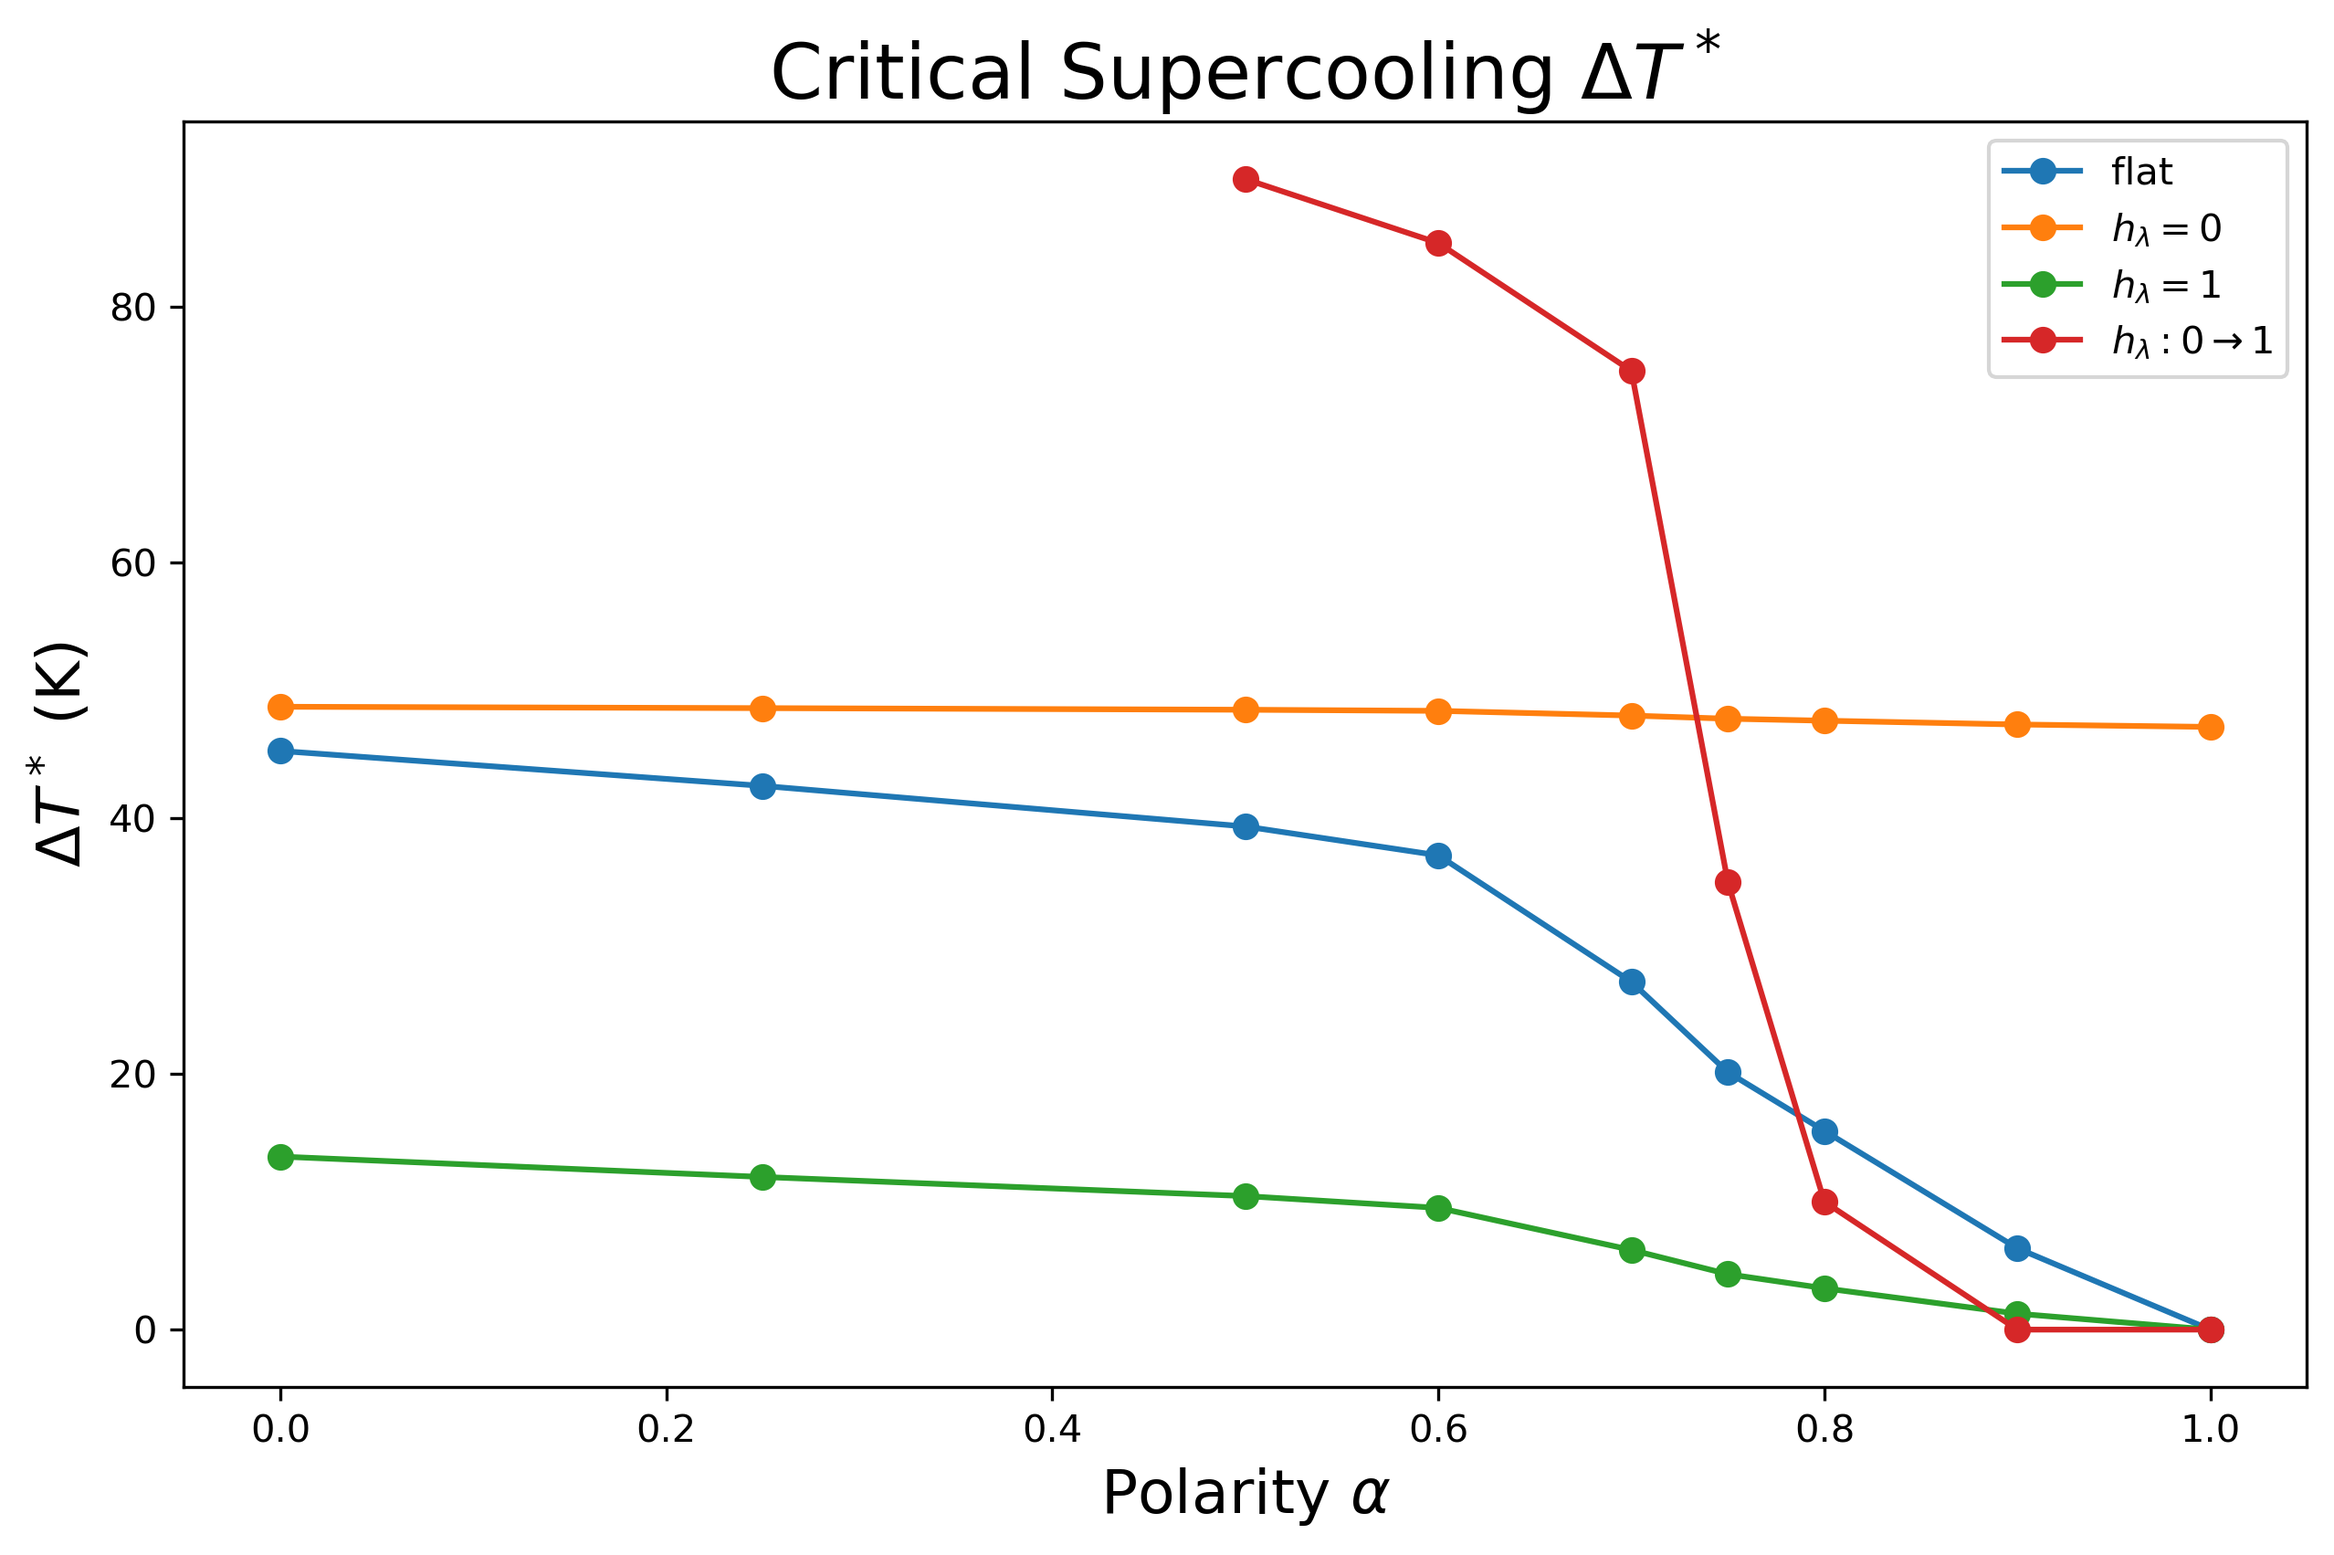
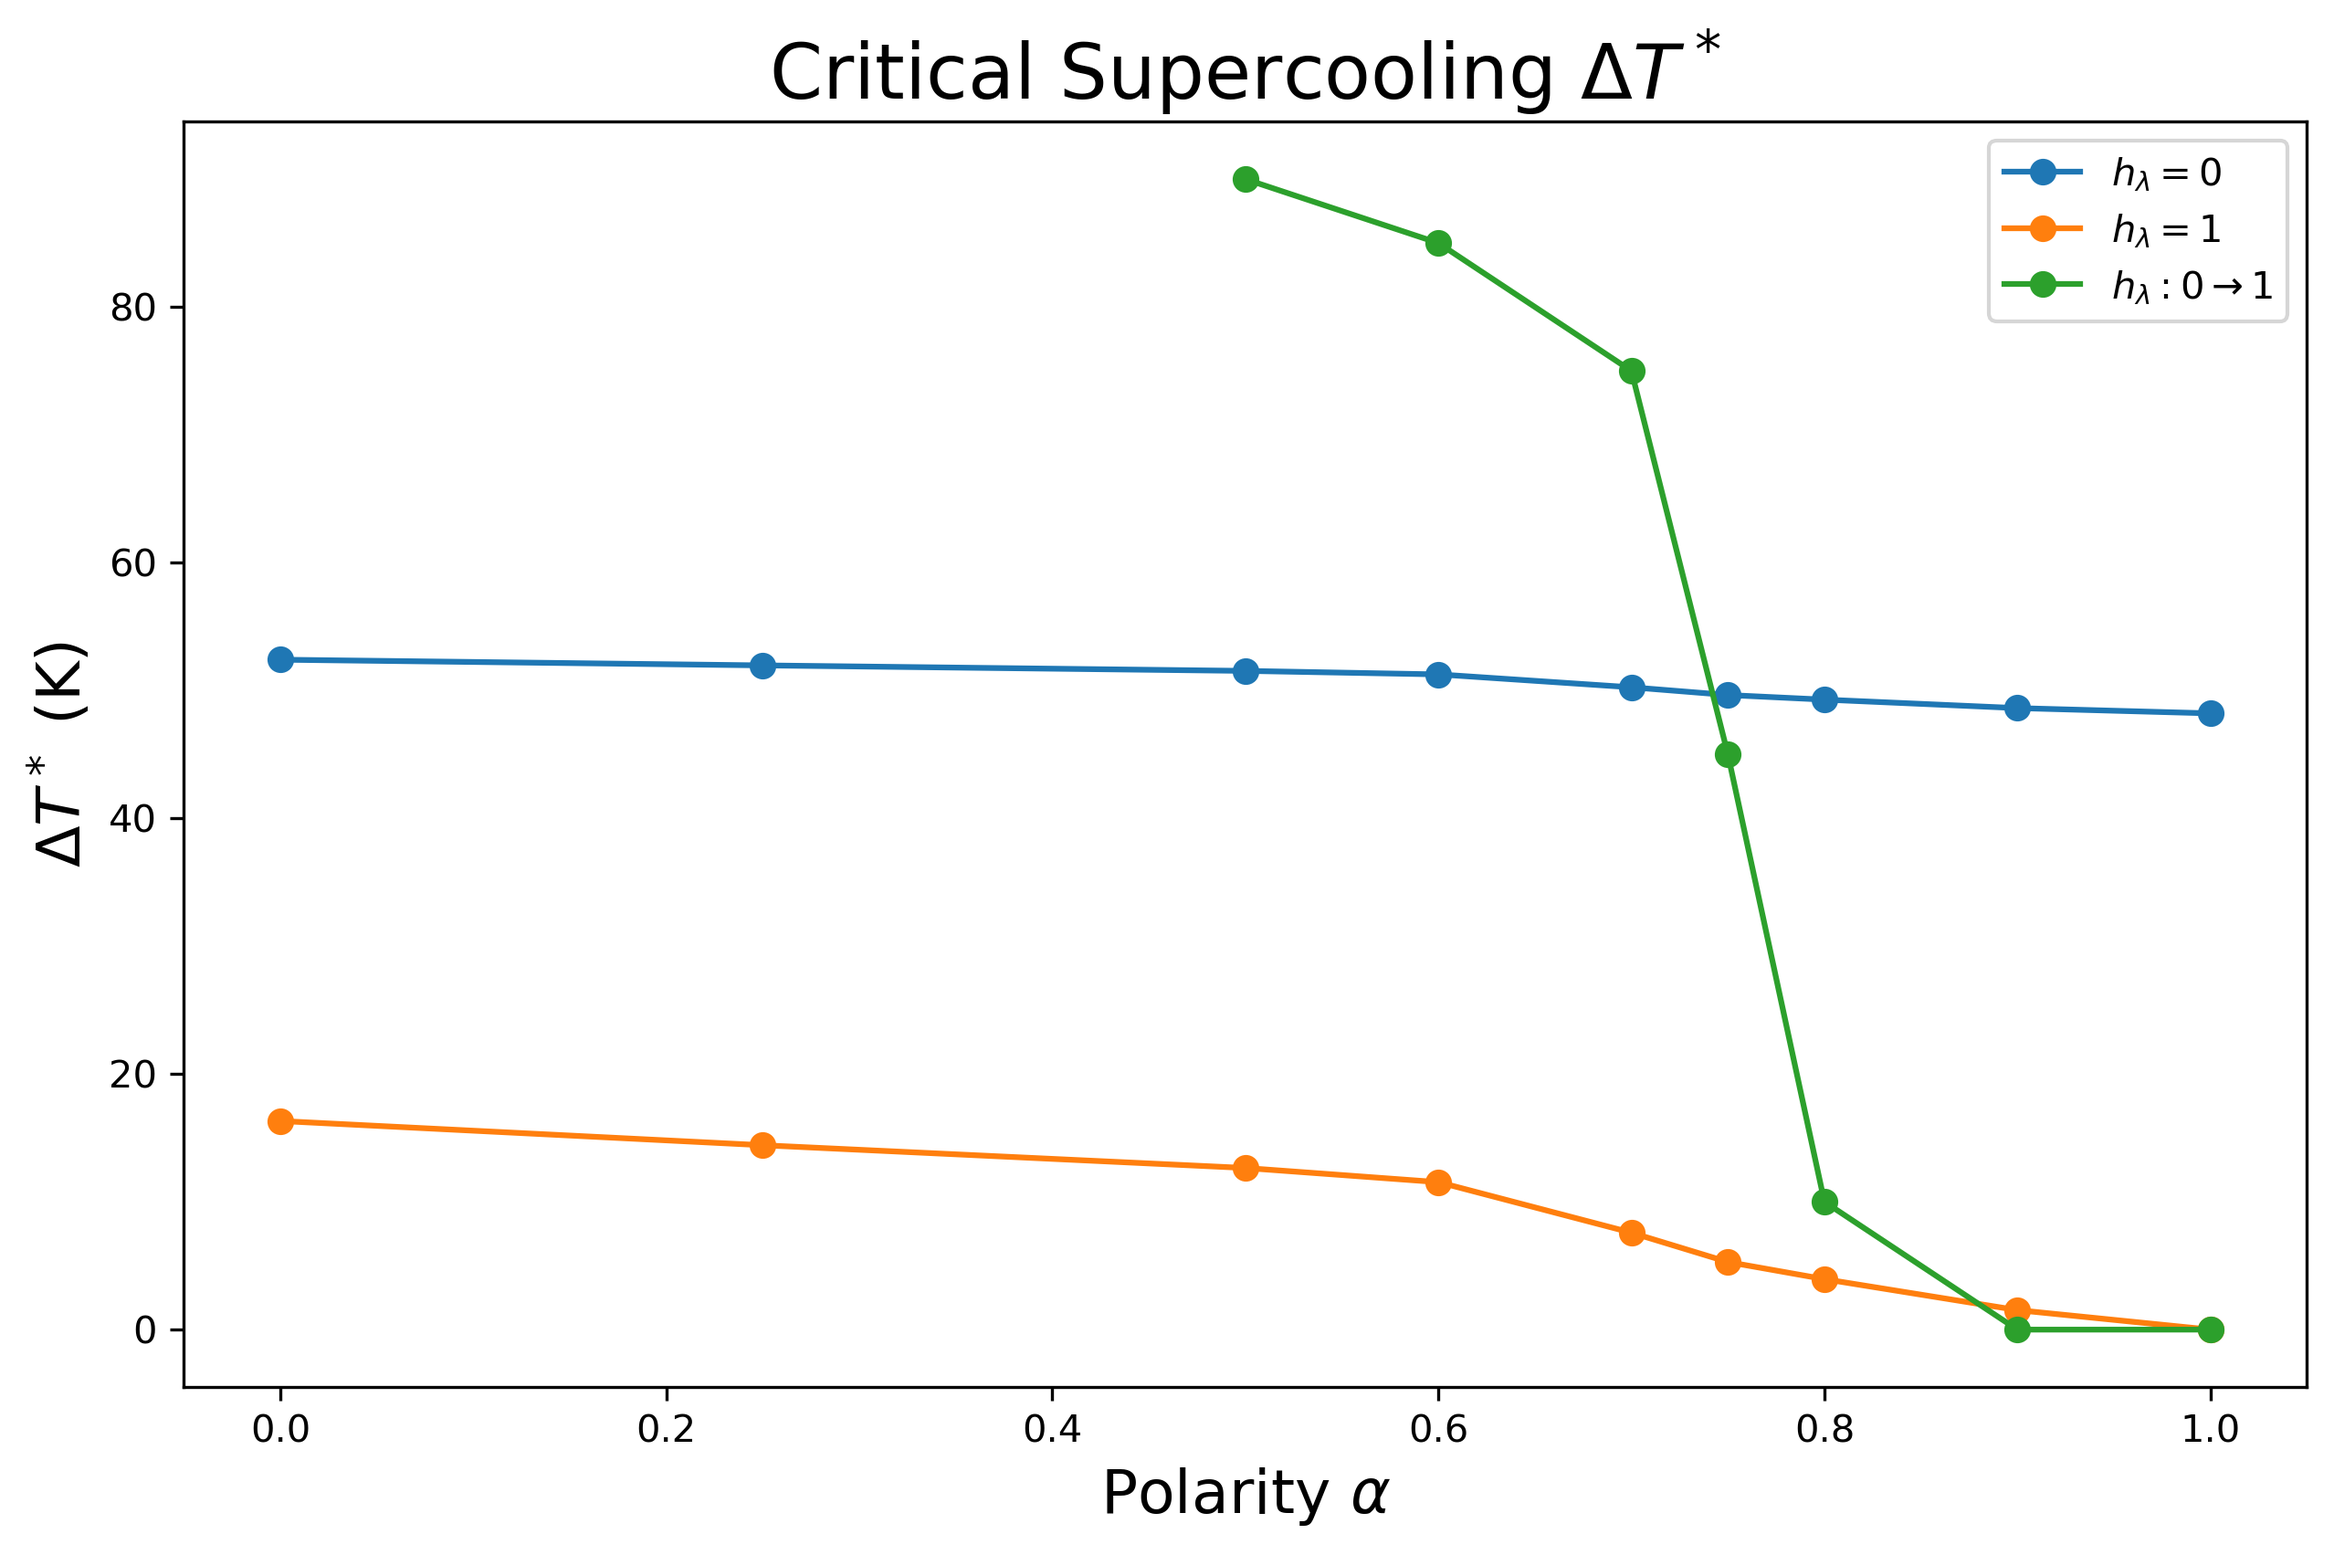
sync

diff --git a/physical_quantity/prototype.py b/physical_quantity/prototype.py
@@ -1,0 +1,129 @@
+# Author: Mian Qin
+# Date Created: 2024/11/13
+from pathlib import Path
+
+import numpy as np
+import matplotlib as mpl
+import matplotlib.pyplot as plt
+
+from utils_plot import create_fig_ax, save_figure
+
+
+class TrackSubclass(type):
+    subclass = []
+
+    def __new__(cls, name, bases, namespace):
+        new_class = super().__new__(cls, name, bases, namespace)
+        new_class.instances = []
+        return new_class
+
+    def __call__(cls, *args, **kwargs):
+        instance = super().__call__(*args, **kwargs)
+        cls.instances.append(instance)
+        return instance
+
+
+class PhysicalQuantity(metaclass=TrackSubclass):
+    name = ""
+    latex_name = ""
+    unit = ""
+
+    def __init__(self, model, value):
+        self.model = model
+        self._value = value
+
+    @property
+    def value(self):
+        return self._value
+
+    def __str__(self):
+        return f"{self.value} ({self.unit})"
+
+    @classmethod
+    def plot_all(cls):
+        title = "Comparison"
+        x_label = "Model"
+        y_label = fr"${cls.latex_name}\ (\mathrm{{{cls.unit}}})$"
+        fig, ax = create_fig_ax(title, x_label, y_label)
+
+        models = []
+        values = []
+        for instance in cls.instances:
+            models.append(instance.model)
+            values.append(instance.value)
+
+        cmap = mpl.colormaps.get_cmap("tab10")
+        colors = cmap(np.arange(len(models)))
+
+        ax.bar(models, values, color=colors)
+        max_value = max(values)
+        min_value = min(values)
+        margin = 0.1 * (max_value - min_value)
+        ax.set_ylim([min_value - margin, max_value + margin])
+
+        save_path = Path(f"./figure/{cls.name}_compare.png")
+        save_figure(fig, save_path)
+        plt.close(fig)
+
+
+class TDependentQuantity(metaclass=TrackSubclass):
+    name = ""
+    latex_name = ""
+    unit = ""
+
+    def __init__(self, model: str, valid_range: tuple[float, float], value_function):
+        self.model = model
+        self.valid_range = valid_range
+        self.value_function = value_function
+
+    def __call__(self, T):
+        self.check_T_range(T)
+        return self.value_at(T)
+
+    def value_at(self, T):
+        return self.value_function(T)
+
+    def check_T_range(self, T):
+        T_min, T_max = self.valid_range
+        if T < T_min or T > T_max:
+            raise ValueError(f"Temperature {T} is out of the valid range ({T_min}, {T_max})")
+
+    def plot_T_dependent_on_ax(self, ax):
+        T_min, T_max = self.valid_range
+        T = np.linspace(T_min, T_max, 1000)
+        value = [self.value_at(x) for x in T]
+        ax.plot(T, value, "-", label=self.model)
+
+    def plot_T_dependent(self):
+        title = self.model
+        x_label = r"$T\ (\mathrm{K})$"
+        y_label = fr"${self.latex_name}\ (\mathrm{{{self.unit}}})$"
+        fig, ax = create_fig_ax(title, x_label, y_label)
+
+        self.plot_T_dependent_on_ax(ax)
+
+        save_path = Path(f"./figure/{self.name}_{self.model}.png")
+        save_figure(fig, save_path)
+
+    @classmethod
+    def plot_all(cls):
+        title = "Comparison"
+        x_label = r"$T\ (\mathrm{K})$"
+        y_label = fr"${cls.latex_name}\ (\mathrm{{{cls.unit}}})$"
+        fig, ax = create_fig_ax(title, x_label, y_label)
+
+        for instance in cls.instances:
+            instance.plot_T_dependent_on_ax(ax)
+
+        ax.legend()
+        save_path = Path(f"./figure/{cls.name}_compare.png")
+        save_figure(fig, save_path)
+        plt.close(fig)
+
+
+def main():
+    ...
+
+
+if __name__ == "__main__":
+    main()

diff --git a/calculate_deltaTstar_tip4pice.py b/calculate_deltaTstar_tip4pice.py
@@ -13,6 +13,7 @@ Delta_H_m = 5.60e3  # J/mol
 l_PI = 2  # nm
 l_box = 4.6  # nm
 alpha_list = [0.0, 0.25, 0.5, 0.6, 0.7, 0.75, 0.8, 0.9, 1.0]
+critical_Delta_T_sim = {0.5: 90, 0.6: 85, 0.7: 75, 0.75: 45, 0.8: 10, 0.9: 0, 1.0: 0}
 
 
 def read_k():
@@ -69,7 +70,7 @@ def calc_G(r, k_eff, T):
     return G
 
 
-def calculate_deltaTstar(k_eff, n=30):
+def calculate_deltaTstar(k_eff, n=20):
     if k_eff > 0.99:
         return 0
     r = np.logspace(-11, -7, 1000)
@@ -156,19 +157,27 @@ def main():
     ax.set_title(r"Critical Supercooling $\Delta T^*$")
     ax.set_xlabel(r"Polarity $\alpha$")
     ax.set_ylabel(r"$\Delta T^*\ ({\rm K})$")
-    ax.plot(alpha_list, data_flat, "o-", label=fr"flat")
     for h_lambda in [0, 1]:
         ax.plot(alpha_list, data[h_lambda], "o-", label=fr"$h_\lambda = {h_lambda}$")
-    ax.plot([0.5, 0.6, 0.7, 0.75, 0.8, 0.9, 1.0], [90, 85, 75, 35, 10, 0, 0], "o-", label=fr"$h_\lambda: 0 \to 1$")
+    # ax.plot([], [])
+    # ax.plot([], [])
+    ax.plot([0.5, 0.6, 0.7, 0.75, 0.8, 0.9, 1.0], [90, 85, 75, 45, 10, 0, 0], "o-", label=fr"$h_\lambda: 0 \to 1$")
+
+    # critical_T_x = [0.0, 0.25, 0.5, 0.6, 0.7, 0.75, 0.8, 0.9, 1.0]
+    # critical_T_y = data[0][:5] + [45, 10] + data[1][7:]
+    critical_T_x = [0.75, 0.8, 0.9, 1.0]
+    critical_T_y = [45, 10] + data[1][7:]
+    ax.plot(critical_T_x, critical_T_y, "o-", label=r"$\Delta T^*$")
+    ax.plot(alpha_list, data_flat, "o-", label=fr"flat")
     ax.legend()
-    plt.savefig(f"figure/delta_T_tip4p_ice.png", bbox_inches="tight", pad_inches=0.1)
+    plt.savefig(f"figure/delta_T_tip4p_ice_compare.png", bbox_inches="tight", pad_inches=0.1)
     plt.close(fig)
 
 
 if __name__ == "__main__":
     # print(calc_H_m(230))
-    main_plot_delta_mu()
+    # main_plot_delta_mu()
     # main_plot_alpha_to_k()
     # print(calc_Delta_mu(T_m - 65))
     # main_calc_plot_Delta_T_star_k()
-    # main()
+    main()

diff --git a/physical_quantity/surface_tension.py b/physical_quantity/surface_tension.py
@@ -1,0 +1,52 @@
+# Author: Mian Qin
+# Date Created: 2024/11/14
+import numpy as np
+
+from prototype import TDependentQuantity
+from melting_temperature import T_m_real_water, T_m_tip4p_ice
+
+
+class SurfaceTension(TDependentQuantity):
+    name = "gamma_IL"
+    latex_name = r"\gamma_{IL}"
+    unit = "J/m^2"
+
+
+def gamma_IL_real_water_func(T):
+    """
+    @Koop_2016_PhysicallyConstrainedClassical
+    """
+    T_m = T_m_real_water.value  # K
+    Delta_H_m_h = (6.008 + 0.03616 * (T - T_m) - 3.9479e-4 * (T - T_m) ** 2 - 1.6248e-5 * (T - T_m) ** 3 - 3.2563e-7 * (
+                T - T_m) ** 4) * 1e3  # J/mol, Enthalpy of melting for hexagonal ice
+    Delta_H_sd_h = 0.155e3  # J/mol, Enthalpy difference between stacking disordered and hexagonal ice
+    Delta_H_m_sd = Delta_H_m_h - Delta_H_sd_h
+    Delta_H_m_sd_Tr = 4.1776e3  # J/mol, Delta_H_m_sd at Tr
+    sigma_sd_l_Tr = 18.505e-3  # J/m^2
+    sigma_sd_l = Delta_H_m_sd / Delta_H_m_sd_Tr * sigma_sd_l_Tr
+    return sigma_sd_l
+
+
+gamma_IL_real_water = SurfaceTension("RealWater", (225, 273.15), gamma_IL_real_water_func)
+
+
+def gamma_IL_tip4p_ice_func(T):
+    """
+    @Espinosa_2014_HomogeneousIceNucleation
+    """
+    T_m = T_m_tip4p_ice.value
+    gamma = (30.8 - 0.25 * (T_m - T)) * 1e-3
+    return gamma
+
+
+gamma_IL_tip4p_ice = SurfaceTension("Tip4pIce", (200, 300), gamma_IL_tip4p_ice_func)  # TODO: valid range is incorrect
+
+
+def main():
+    gamma_IL_real_water.plot_T_dependent()
+    gamma_IL_tip4p_ice.plot_T_dependent()
+    SurfaceTension.plot_all()
+
+
+if __name__ == "__main__":
+    main()

diff --git a/physical_quantity/chemical_potential.py b/physical_quantity/chemical_potential.py
@@ -1,0 +1,45 @@
+# Author: Mian Qin
+# Date Created: 2024/11/14
+import numpy as np
+
+from prototype import TDependentQuantity
+from melting_temperature import T_m_real_water, T_m_tip4p_ice
+
+
+class ChemicalPotential(TDependentQuantity):
+    name = "DeltaMu"
+    latex_name = r"\Delta\mu"
+    unit = "J/mol"
+
+
+def delta_mu_real_water_func(T):
+    """
+    @Koop_2000_WaterActivityDeterminant
+    """
+    return 210368 + 131.438 * T - 3.32373e6 / T - 41729.1 * np.log(T)
+
+
+delta_mu_real_water = ChemicalPotential("RealWater", (150, 273), delta_mu_real_water_func)
+
+
+def delta_mu_tip4p_ice_func(T):
+    """
+    @Thosar_2024_EngulfmentAntifreezeProteins
+    """
+    Delta_h = 5.6e3  # J/mol
+    T_m = T_m_tip4p_ice.value  # K
+    Delta_mu = Delta_h / T_m * (T - T_m)
+    return Delta_mu
+
+
+delta_mu_tip4p_ice = ChemicalPotential("Tip4pIce", (200, 300), delta_mu_tip4p_ice_func)  # TODO: valid range is incorrect
+
+
+def main():
+    delta_mu_real_water.plot_T_dependent()
+    delta_mu_tip4p_ice.plot_T_dependent()
+    ChemicalPotential.plot_all()
+
+
+if __name__ == "__main__":
+    main()

diff --git a/physical_quantity/density.py b/physical_quantity/density.py
@@ -1,0 +1,44 @@
+# Author: Mian Qin
+# Date Created: 2024/11/14
+import numpy as np
+
+from prototype import TDependentQuantity
+
+
+class IceDensity(TDependentQuantity):
+    name = "rho_I"
+    latex_name = r"\rho_I"
+    unit = "mol/m^3"
+
+
+def rho_I_real_water_func(T):
+    """
+    @Murray_2010_HomogeneousNucleationAmorphous
+    """
+    rho_I = -1.3103e-9 * T ** 3 + 3.8109e-7 * T ** 2 - 9.2592e-5 * T + 0.94040  # g/cm^3
+    rho_I = rho_I / 18 * 1e6  # Convert into mol/m^3
+    return rho_I
+
+
+rho_I_real_water = IceDensity("RealWater", (200, 300), rho_I_real_water_func)  # TODO: valid range is incorrect
+
+
+def rho_I_tip4p_ice_func(T):
+    """
+    @Thosar_2024_EngulfmentAntifreezeProteins
+    """
+    rho_I = 5e4
+    return rho_I
+
+
+rho_I_tip4p_ice = IceDensity("Tip4pIce", (200, 300), rho_I_tip4p_ice_func)  # TODO: valid range is incorrect
+
+
+def main():
+    rho_I_real_water.plot_T_dependent()
+    rho_I_tip4p_ice.plot_T_dependent()
+    IceDensity.plot_all()
+
+
+if __name__ == "__main__":
+    main()

diff --git a/physical_quantity/melting_temperature.py b/physical_quantity/melting_temperature.py
@@ -1,0 +1,23 @@
+# Author: Mian Qin
+# Date Created: 2024/11/15
+import numpy as np
+
+from prototype import PhysicalQuantity
+
+
+class MeltingTemperature(PhysicalQuantity):
+    name = "T_m"
+    latex_name = "T_m"
+    unit = "K"
+
+
+T_m_real_water = MeltingTemperature("RealWater", 273.15)
+T_m_tip4p_ice = MeltingTemperature("Tip4pIce", 272)  # @Espinosa_2014_HomogeneousIceNucleation
+
+
+def main():
+    MeltingTemperature.plot_all()
+
+
+if __name__ == "__main__":
+    main()

diff --git a/physical_quantity/__init__.py b/physical_quantity/__init__.py
@@ -1,0 +1,10 @@
+# Author: Mian Qin
+# Date Created: 2024/11/13
+
+
+def main():
+    ...
+
+
+if __name__ == "__main__":
+    main()
